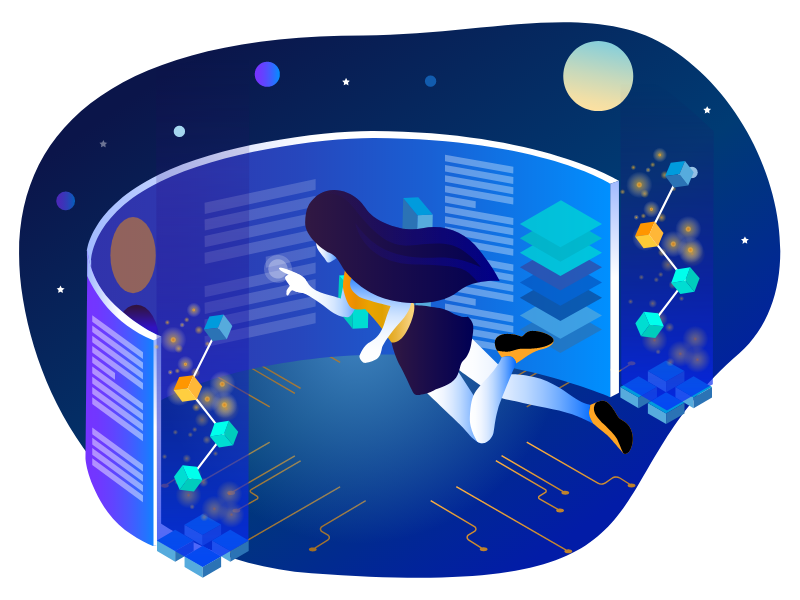
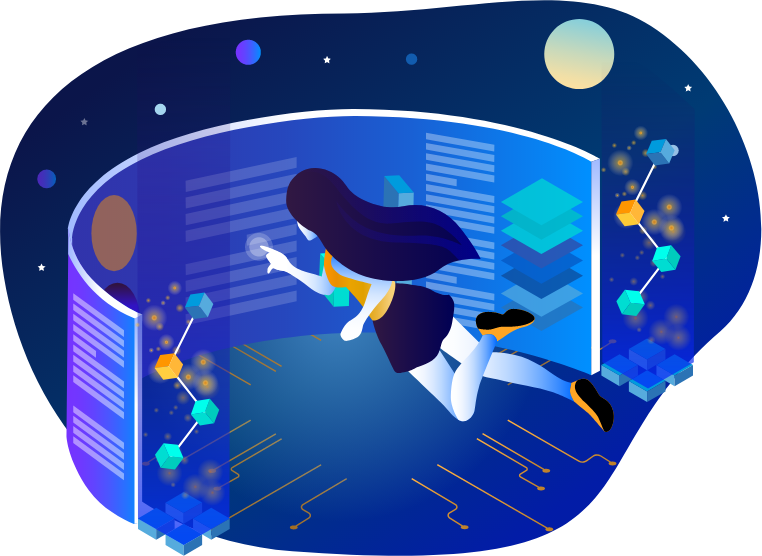
fix: adjust illust size and location in BookCard

diff --git a/src/components/organisms/BookCard.jsx b/src/components/organisms/BookCard.jsx
@@ -10,6 +10,7 @@ const BookCard = ({
   image, title, description,
   shadowColor, route,
   history,
+  isVertical = false,
 }) => {
   const onClickCard = () => history.push(route);
 
@@ -18,18 +19,21 @@ const BookCard = ({
       <Container
         onClick={onClickCard}
       >
-        <CoverImage
-          src={image}
-          shadowColor={shadowColor}
-        />
-        <Title
-          shadowColor={shadowColor}
-        >
-          {title}
-        </Title>
-        <Description>
-          {description}
-        </Description>
+        <Content>
+          <CoverImage
+            src={image}
+            shadowColor={shadowColor}
+            isVertical={isVertical}
+          />
+          <Title
+            shadowColor={shadowColor}
+          >
+            {title}
+          </Title>
+          <Description>
+            {description}
+          </Description>
+        </Content>
       </Container>
     </Wrapper>
   );
@@ -45,10 +49,12 @@ const Wrapper = styled.div`
 `;
 
 const Container = styled.div`
+  position: relative;
   display: flex;
   flex-direction: column;
   align-items: center;
   width: 256px;
+  height: 320px;
   border-radius: 16px;
   background-color: rgb(224, 229, 236);
   box-shadow:
@@ -58,8 +64,21 @@ const Container = styled.div`
   cursor: pointer;
 `;
 
+const Content = styled.div`
+  display: flex;
+  flex-direction: column;
+  align-items: center;
+  position: absolute;
+  bottom: 1rem;
+`;
+
 const CoverImage = styled(Image)`
   width: 312px;
+
+  ${({ isVertical }) => isVertical && css`
+    height: 256px;
+    width: unset;
+  `};
 
   ${({ shadowColor }) => shadowColor && css`
     filter:
@@ -77,6 +96,7 @@ const Title = styled(Text)`
   font-size: 1.35rem;
   font-weight: bold;
   text-transform: uppercase;
+  margin-top: 0.5rem;
 
   ${({ shadowColor }) => shadowColor && css`
     text-shadow: 3px 3px 35px ${shadowColor};

diff --git a/src/pages/Home.jsx b/src/pages/Home.jsx
@@ -18,10 +18,11 @@ const books = [
   },
   {
     title: 'members',
-    description: '이누를 소개합니다',
+    description: '동아리를 이루는 사람들',
     image: membersIllust,
     route: '/members',
     shadowColor: 'rgba(255, 97, 104, 0.5)',
+    isVertical: true,
   },
 ];
 
@@ -44,7 +45,7 @@ const HomePage = () => {
 export default HomePage;
 
 const BookShelf = styled.div`
-  width: 85%;
+  width: 95%;
   display: grid;
   grid-column-gap: 1rem;
   grid-row-gap: 3rem;
